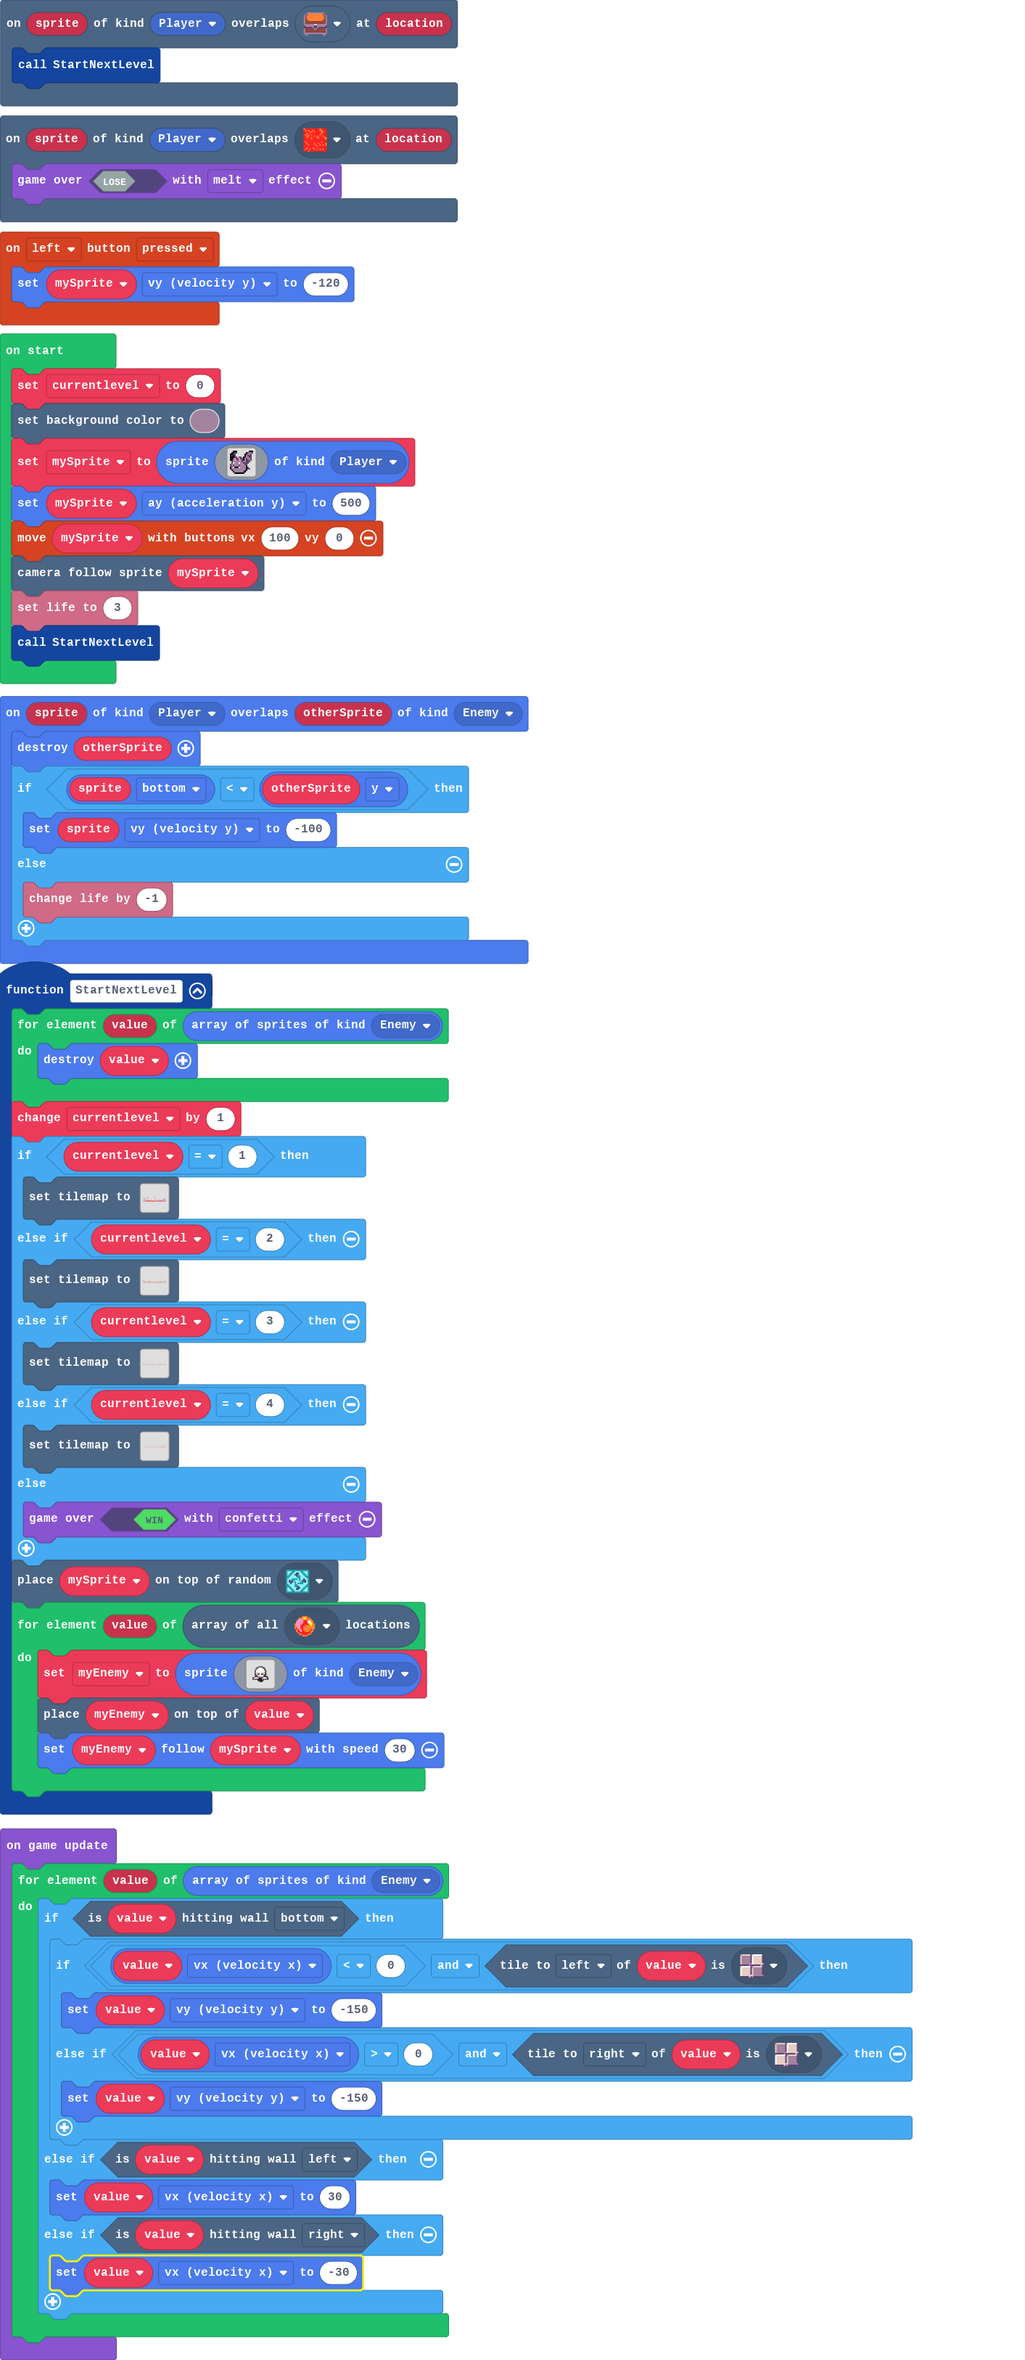
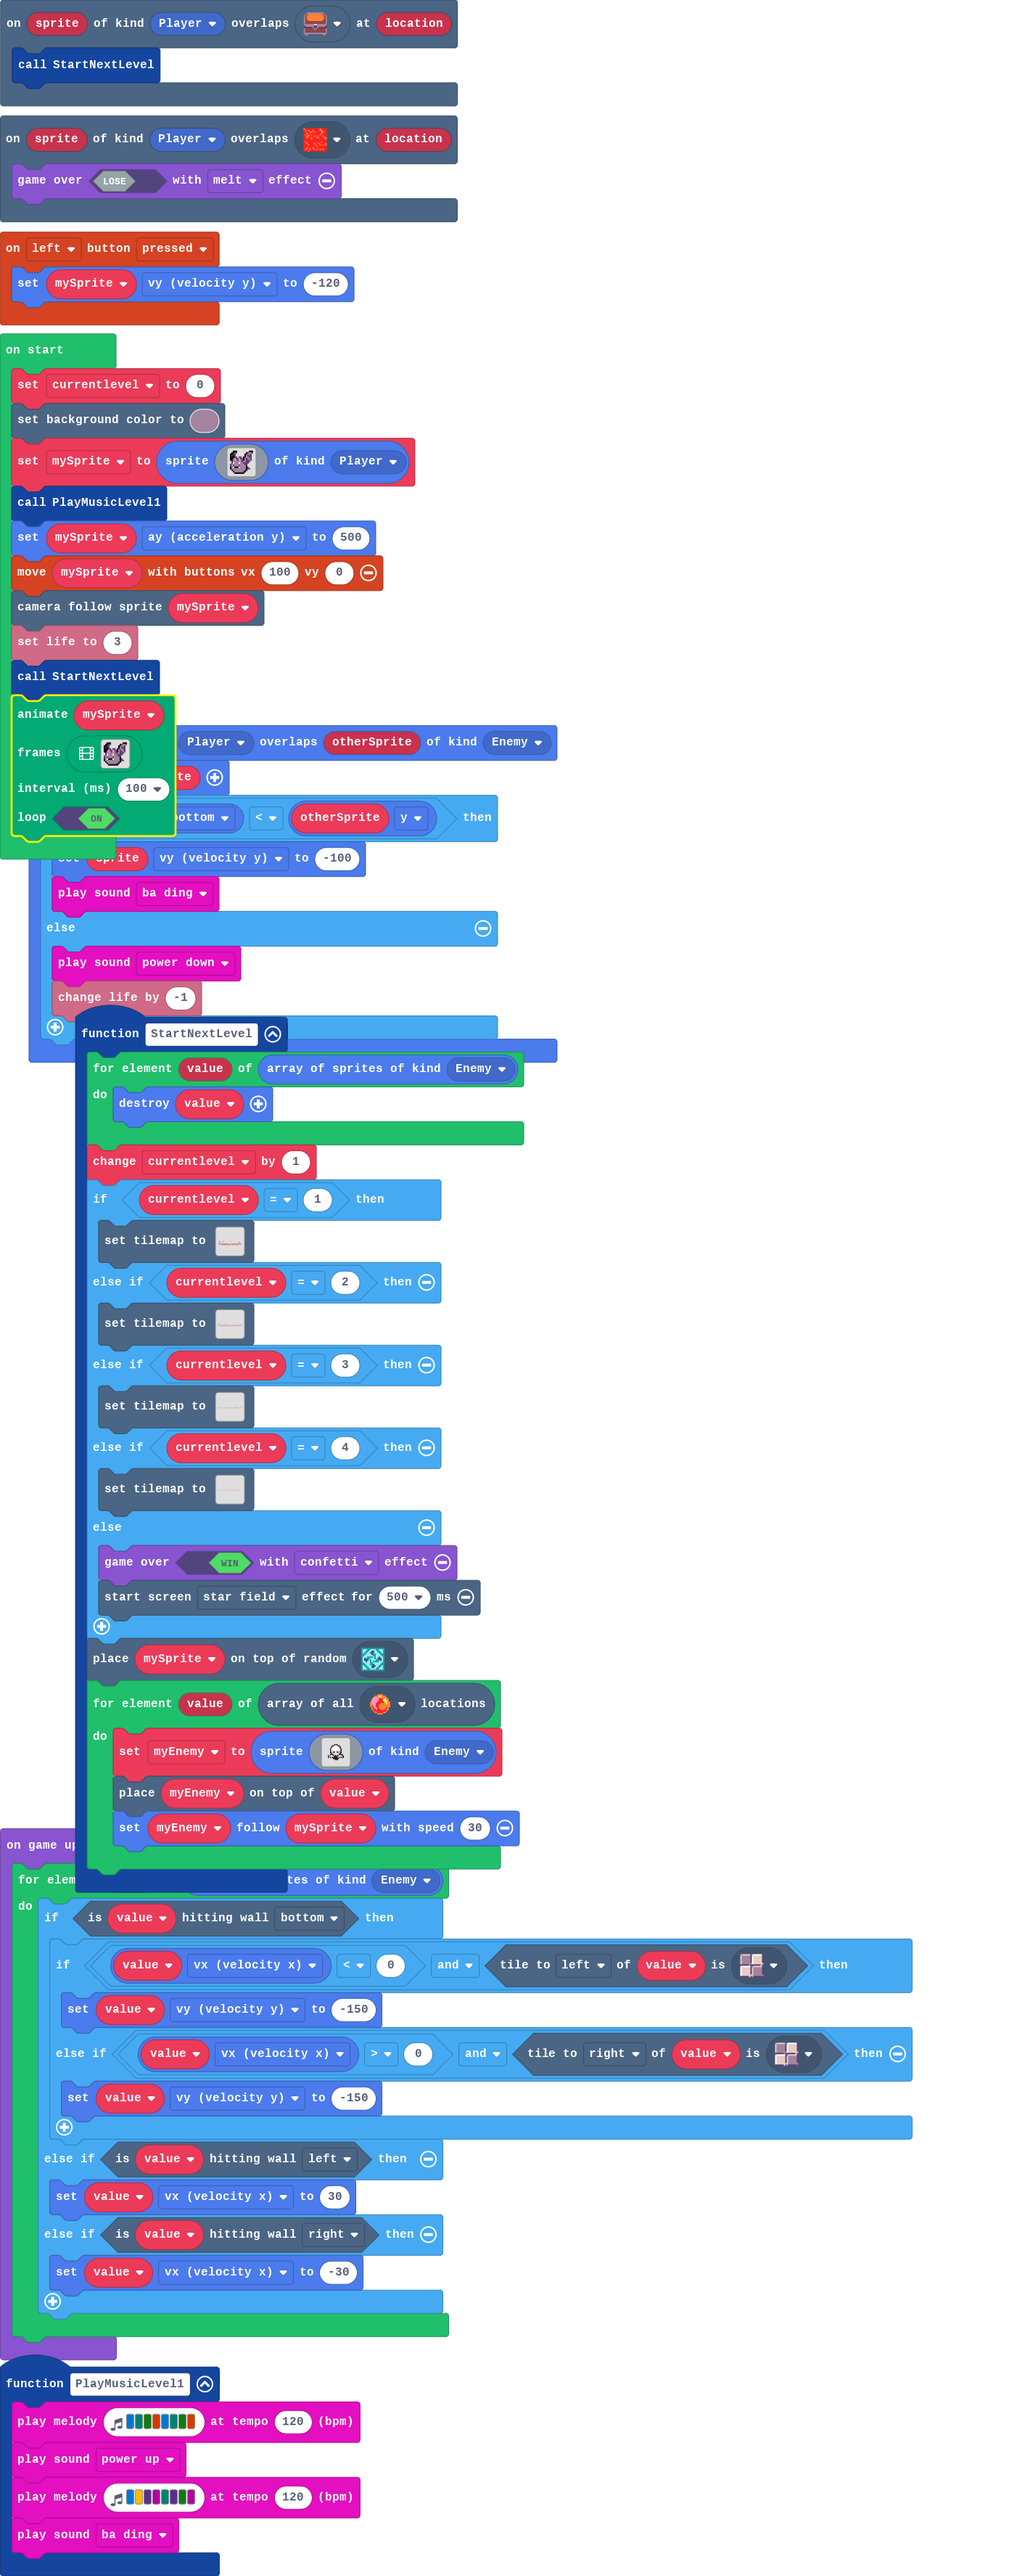
Added music and animation for player sprite

diff --git a/main.ts b/main.ts
@@ -13,6 +13,7 @@ function StartNextLevel () {
         tiles.setTilemap(tilemap`level11`)
     } else {
         game.over(true, effects.confetti)
+        effects.starField.startScreenEffect(500)
     }
     tiles.placeOnRandomTile(mySprite, sprites.dungeon.collectibleInsignia)
     for (let value of tiles.getTilesByType(sprites.dungeon.collectibleRedCrystal)) {
@@ -55,11 +56,19 @@ controller.left.onEvent(ControllerButtonEvent.Pressed, function () {
 scene.onOverlapTile(SpriteKind.Player, sprites.dungeon.chestClosed, function (sprite, location) {
     StartNextLevel()
 })
+function PlayMusicLevel1 () {
+    music.playMelody("E F G B E F G B ", 120)
+    music.powerUp.play()
+    music.playMelody("E A D C F D G C ", 120)
+    music.baDing.play()
+}
 sprites.onOverlap(SpriteKind.Player, SpriteKind.Enemy, function (sprite, otherSprite) {
     otherSprite.destroy()
     if (sprite.bottom < otherSprite.y) {
         sprite.vy = -100
+        music.baDing.play()
     } else {
+        music.powerDown.play()
         info.changeLifeBy(-1)
     }
 })
@@ -86,11 +95,86 @@ mySprite = sprites.create(img`
     . . f b b b b b b c f . . . . . 
     . . . f f f f f f f . . . . . . 
     `, SpriteKind.Player)
+PlayMusicLevel1()
 mySprite.ay = 500
 controller.moveSprite(mySprite, 100, 0)
 scene.cameraFollowSprite(mySprite)
 info.setLife(3)
 StartNextLevel()
+animation.runImageAnimation(
+mySprite,
+[img`
+    . . f f f . . . . . . . . f f f 
+    . f f c c . . . . . . f c b b c 
+    f f c c . . . . . . f c b b c . 
+    f c f c . . . . . . f b c c c . 
+    f f f c c . c c . f c b b c c . 
+    f f c 3 c c 3 c c f b c b b c . 
+    f f b 3 b c 3 b c f b c c b c . 
+    . c b b b b b b c b b c c c . . 
+    . c 1 b b b 1 b b c c c c . . . 
+    c b b b b b b b b b c c . . . . 
+    c b c b b b c b b b b f . . . . 
+    f b 1 f f f 1 b b b b f c . . . 
+    f b b b b b b b b b b f c c . . 
+    . f b b b b b b b b c f . . . . 
+    . . f b b b b b b c f . . . . . 
+    . . . f f f f f f f . . . . . . 
+    `,img`
+    . . f f f . . . . . . . . . . . 
+    f f f c c . . . . . . . . f f f 
+    f f c c . . c c . . . f c b b c 
+    f f c 3 c c 3 c c f f b b b c . 
+    f f b 3 b c 3 b c f b b c c c . 
+    . c b b b b b b c f b c b c c . 
+    . c b b b b b b c b b c b b c . 
+    c b 1 b b b 1 b b b c c c b c . 
+    c b b b b b b b b c c c c c . . 
+    f b c b b b c b b b b f c . . . 
+    f b 1 f f f 1 b b b b f c c . . 
+    . f b b b b b b b b c f . . . . 
+    . . f b b b b b b c f . . . . . 
+    . . . f f f f f f f . . . . . . 
+    . . . . . . . . . . . . . . . . 
+    . . . . . . . . . . . . . . . . 
+    `,img`
+    . . . . . . . . . . . . . . . . 
+    . . c c . . c c . . . . . . . . 
+    . . c 3 c c 3 c c c . . . . . . 
+    . c b 3 b c 3 b c c c . . . . . 
+    . c b b b b b b b b f f . . . . 
+    c c b b b b b b b b f f . . . . 
+    c b 1 b b b 1 b b c f f f . . . 
+    c b b b b b b b b f f f f . . . 
+    f b c b b b c b c c b b b . . . 
+    f b 1 f f f 1 b f c c c c . . . 
+    . f b b b b b b f b b c c . . . 
+    c c f b b b b b c c b b c . . . 
+    c c c f f f f f f c c b b c . . 
+    . c c c . . . . . . c c c c c . 
+    . . c c c . . . . . . . c c c c 
+    . . . . . . . . . . . . . . . . 
+    `,img`
+    . f f f . . . . . . . . f f f . 
+    f f c . . . . . . . f c b b c . 
+    f c c . . . . . . f c b b c . . 
+    c f . . . . . . . f b c c c . . 
+    c f f . . . . . f f b b c c . . 
+    f f f c c . c c f b c b b c . . 
+    f f f c c c c c f b c c b c . . 
+    . f c 3 c c 3 b c b c c c . . . 
+    . c b 3 b c 3 b b c c c c . . . 
+    c c b b b b b b b b c c . . . . 
+    c b 1 b b b 1 b b b b f c . . . 
+    f b b b b b b b b b b f c c . . 
+    f b c b b b c b b b b f . . . . 
+    . f 1 f f f 1 b b b c f . . . . 
+    . . f b b b b b b c f . . . . . 
+    . . . f f f f f f f . . . . . . 
+    `],
+100,
+true
+)
 game.onUpdate(function () {
     for (let value of sprites.allOfKind(SpriteKind.Enemy)) {
         if (value.isHittingTile(CollisionDirection.Bottom)) {

diff --git a/images.g.ts b/images.g.ts
@@ -53,7 +53,75 @@ f b b b b b b b b b b f c c . .
 
     helpers._registerFactory("animation", function(name: string) {
         switch(helpers.stringTrim(name)) {
-
+            case "anim1":return [img`
+. . f f f . . . . . . . . f f f 
+. f f c c . . . . . . f c b b c 
+f f c c . . . . . . f c b b c . 
+f c f c . . . . . . f b c c c . 
+f f f c c . c c . f c b b c c . 
+f f c 3 c c 3 c c f b c b b c . 
+f f b 3 b c 3 b c f b c c b c . 
+. c b b b b b b c b b c c c . . 
+. c 1 b b b 1 b b c c c c . . . 
+c b b b b b b b b b c c . . . . 
+c b c b b b c b b b b f . . . . 
+f b 1 f f f 1 b b b b f c . . . 
+f b b b b b b b b b b f c c . . 
+. f b b b b b b b b c f . . . . 
+. . f b b b b b b c f . . . . . 
+. . . f f f f f f f . . . . . . 
+`, img`
+. . f f f . . . . . . . . . . . 
+f f f c c . . . . . . . . f f f 
+f f c c . . c c . . . f c b b c 
+f f c 3 c c 3 c c f f b b b c . 
+f f b 3 b c 3 b c f b b c c c . 
+. c b b b b b b c f b c b c c . 
+. c b b b b b b c b b c b b c . 
+c b 1 b b b 1 b b b c c c b c . 
+c b b b b b b b b c c c c c . . 
+f b c b b b c b b b b f c . . . 
+f b 1 f f f 1 b b b b f c c . . 
+. f b b b b b b b b c f . . . . 
+. . f b b b b b b c f . . . . . 
+. . . f f f f f f f . . . . . . 
+. . . . . . . . . . . . . . . . 
+. . . . . . . . . . . . . . . . 
+`, img`
+. . . . . . . . . . . . . . . . 
+. . c c . . c c . . . . . . . . 
+. . c 3 c c 3 c c c . . . . . . 
+. c b 3 b c 3 b c c c . . . . . 
+. c b b b b b b b b f f . . . . 
+c c b b b b b b b b f f . . . . 
+c b 1 b b b 1 b b c f f f . . . 
+c b b b b b b b b f f f f . . . 
+f b c b b b c b c c b b b . . . 
+f b 1 f f f 1 b f c c c c . . . 
+. f b b b b b b f b b c c . . . 
+c c f b b b b b c c b b c . . . 
+c c c f f f f f f c c b b c . . 
+. c c c . . . . . . c c c c c . 
+. . c c c . . . . . . . c c c c 
+. . . . . . . . . . . . . . . . 
+`, img`
+. f f f . . . . . . . . f f f . 
+f f c . . . . . . . f c b b c . 
+f c c . . . . . . f c b b c . . 
+c f . . . . . . . f b c c c . . 
+c f f . . . . . f f b b c c . . 
+f f f c c . c c f b c b b c . . 
+f f f c c c c c f b c c b c . . 
+. f c 3 c c 3 b c b c c c . . . 
+. c b 3 b c 3 b b c c c c . . . 
+c c b b b b b b b b c c . . . . 
+c b 1 b b b 1 b b b b f c . . . 
+f b b b b b b b b b b f c c . . 
+f b c b b b c b b b b f . . . . 
+. f 1 f f f 1 b b b c f . . . . 
+. . f b b b b b b c f . . . . . 
+. . . f f f f f f f . . . . . . 
+`];
         }
         return null;
     })
